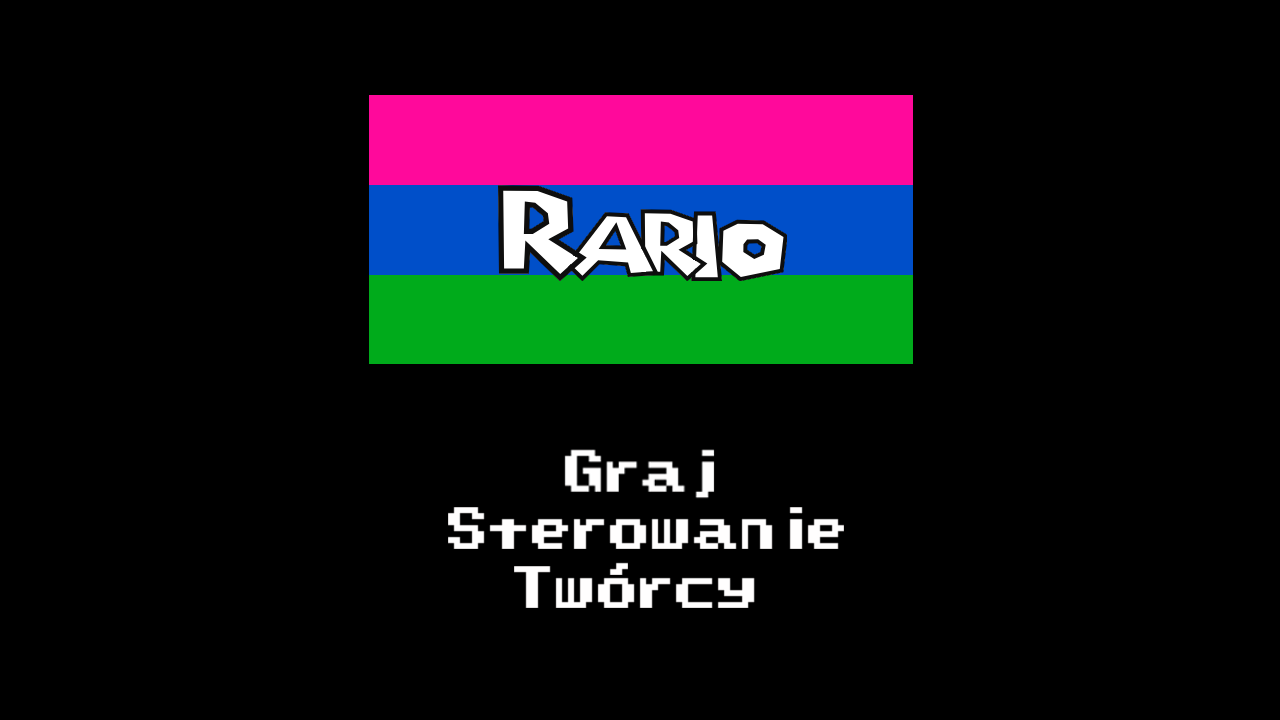
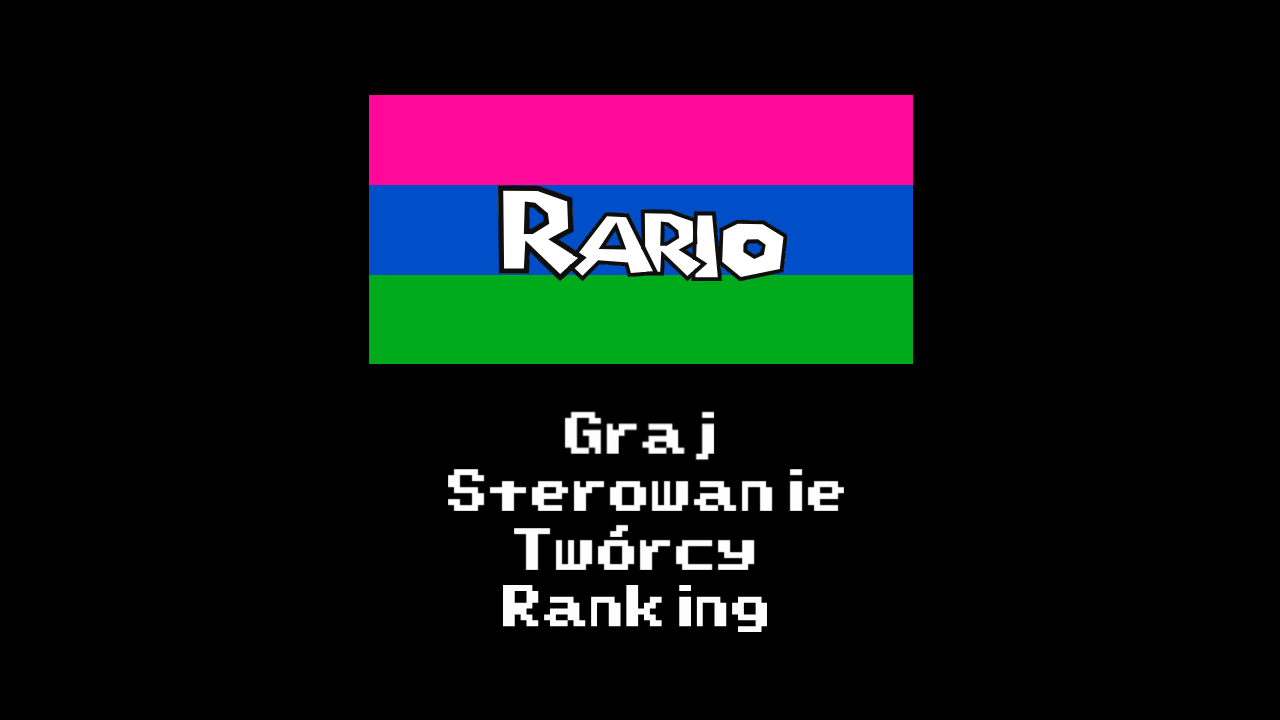
menu

Changed region(s): [[0.3438, 0.55, 0.6562, 0.8861]]

diff --git a/src/view/WyborWMenu.java b/src/view/WyborWMenu.java
@@ -3,7 +3,8 @@ package view;
 public enum WyborWMenu {
     GRAJ(0),
     STEROWANIE(1),
-    TWORCY(2);
+    TWORCY(2),
+    RANKING(3);
 
     private final int wiersz;
     WyborWMenu(int wiersz){
@@ -17,17 +18,19 @@ public enum WyborWMenu {
             return STEROWANIE;
         else if(wybor == 2)
             return TWORCY;
+        else if(wybor == 3)
+            return RANKING;
         else return null;
     }
 
     public WyborWMenu wybierz(boolean czyWGore){
         int wybor;
 
-        if(wiersz > -1 && wiersz < 3){
+        if(wiersz > -1 && wiersz < 4){
             wybor = wiersz - (czyWGore ? 1 : -1);
             if(wybor == -1)
-                wybor = 2;
-            else if(wybor == 3)
+                wybor = 3;
+            else if(wybor == 4)
                 wybor = 0;
             return zwrocWybor(wybor);
         }

diff --git a/src/view/InterfejsUzytkownika.java b/src/view/InterfejsUzytkownika.java
@@ -63,6 +63,9 @@ public class InterfejsUzytkownika extends JPanel{
         else if(statusGry == StatusGry.STEROWANIE){
             wyswietlSterowanie(grafika1);
         }
+        else if(statusGry == StatusGry.RANKING){
+            wyswietlSterowanie(grafika1);
+        }
         else if(statusGry == StatusGry.PRZEGRANA){
             wyswietlPrzegrana(grafika1);
         }
@@ -137,7 +140,7 @@ public class InterfejsUzytkownika extends JPanel{
     private void wyswietlMenu(Graphics2D grafika){
         int wiersz = silnik.getStartScreenSelection().getLineNumber();
         grafika.drawImage(menu, 0, 0, null);
-        grafika.drawImage(wybor, 350, wiersz * 60 + 445, null);
+        grafika.drawImage(wybor, 350, wiersz * 60 + 405, null);
     }
 
     private void wyswietlWyborPoziomu(Graphics2D grafika){

diff --git a/src/manager/MapManager.java b/src/manager/MapManager.java
@@ -79,14 +79,14 @@ public class MapManager {
         return getRario().getX() >= poziom.getKoniec().getX() + 320;
     }
 
-    public void checkCollisions(GameEngine engine) {
+    public void checkCollisions(GameEngine silnik) {
         if (poziom == null) {
             return;
         }
 
         checkBottomCollisions();
-        checkTopCollisions(engine);
-        checkMarioHorizontalCollision(engine);
+        checkTopCollisions(silnik);
+        checkMarioHorizontalCollision(silnik);
         checkEnemyCollisions();
         checkPrizeCollision();
         checkPrizeContact();

diff --git a/src/manager/GameEngine.java b/src/manager/GameEngine.java
@@ -152,6 +152,8 @@ public class GameEngine implements Runnable {
                 setGameStatus(StatusGry.TWORCY);
             } else if (input == AkcjeKlawiszy.WYBIERZ && wyborWMenu == WyborWMenu.STEROWANIE) {
                 setGameStatus(StatusGry.STEROWANIE);
+            } else if (input == AkcjeKlawiszy.WYBIERZ && wyborWMenu == WyborWMenu.RANKING) {
+                setGameStatus(StatusGry.RANKING);
             } else if (input == AkcjeKlawiszy.W_GORE) {
                 selectOption(true);
             } else if (input == AkcjeKlawiszy.W_DOL) {

diff --git a/src/manager/StatusGry.java b/src/manager/StatusGry.java
@@ -8,5 +8,6 @@ public enum StatusGry {
     POZIOMY,
     STEROWANIE,
     WYGRANA,
-    TWORCY
+    TWORCY,
+    RANKING
 }
